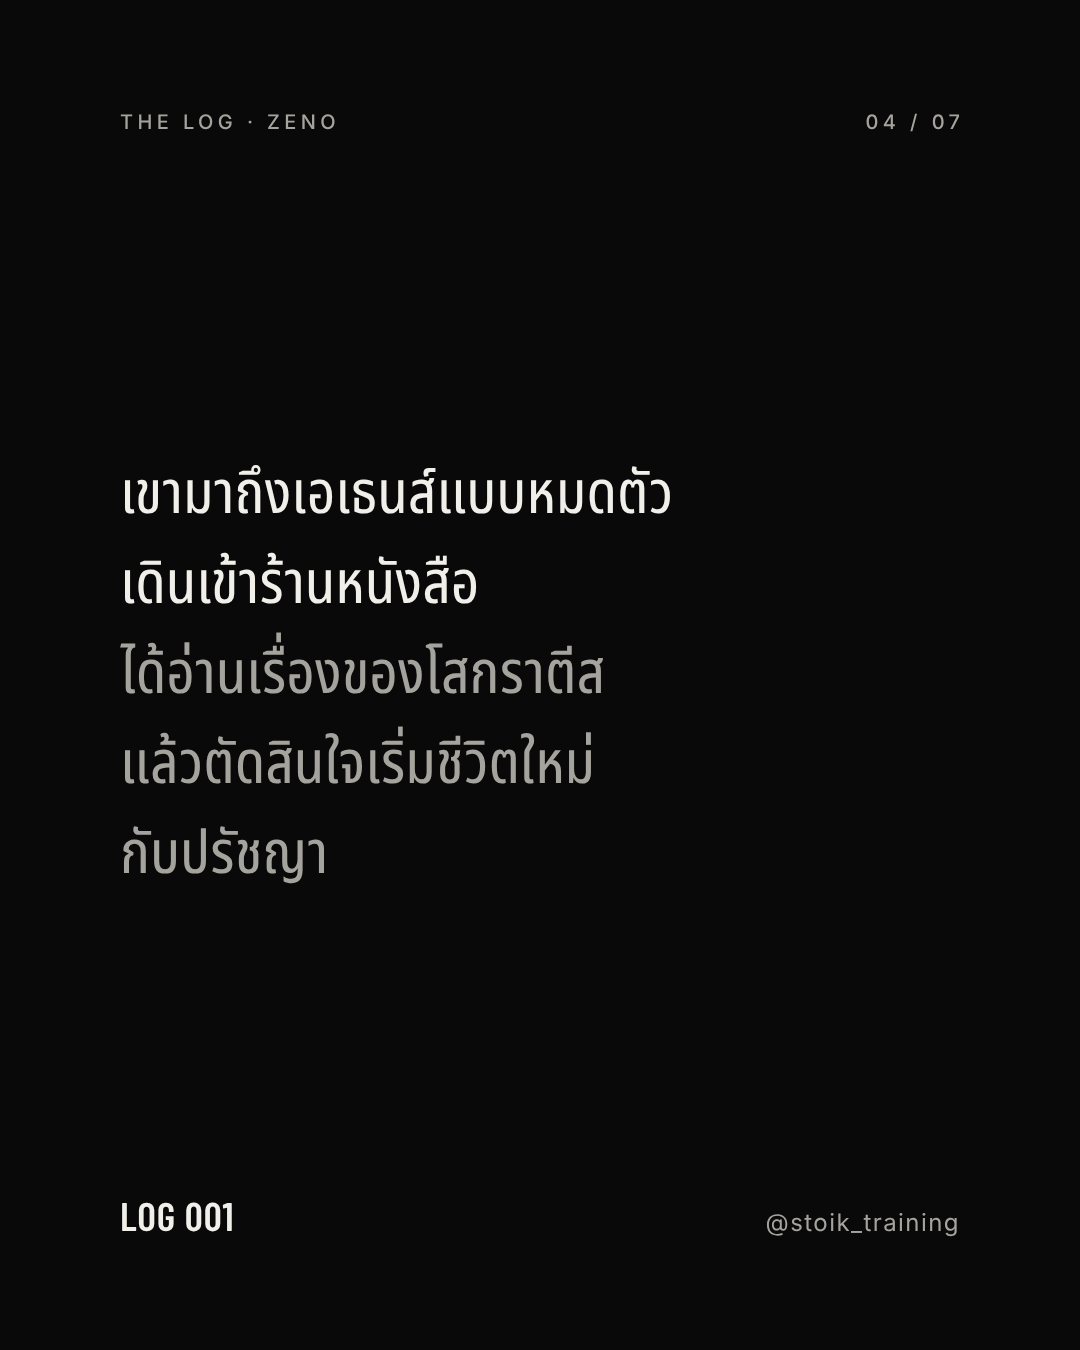
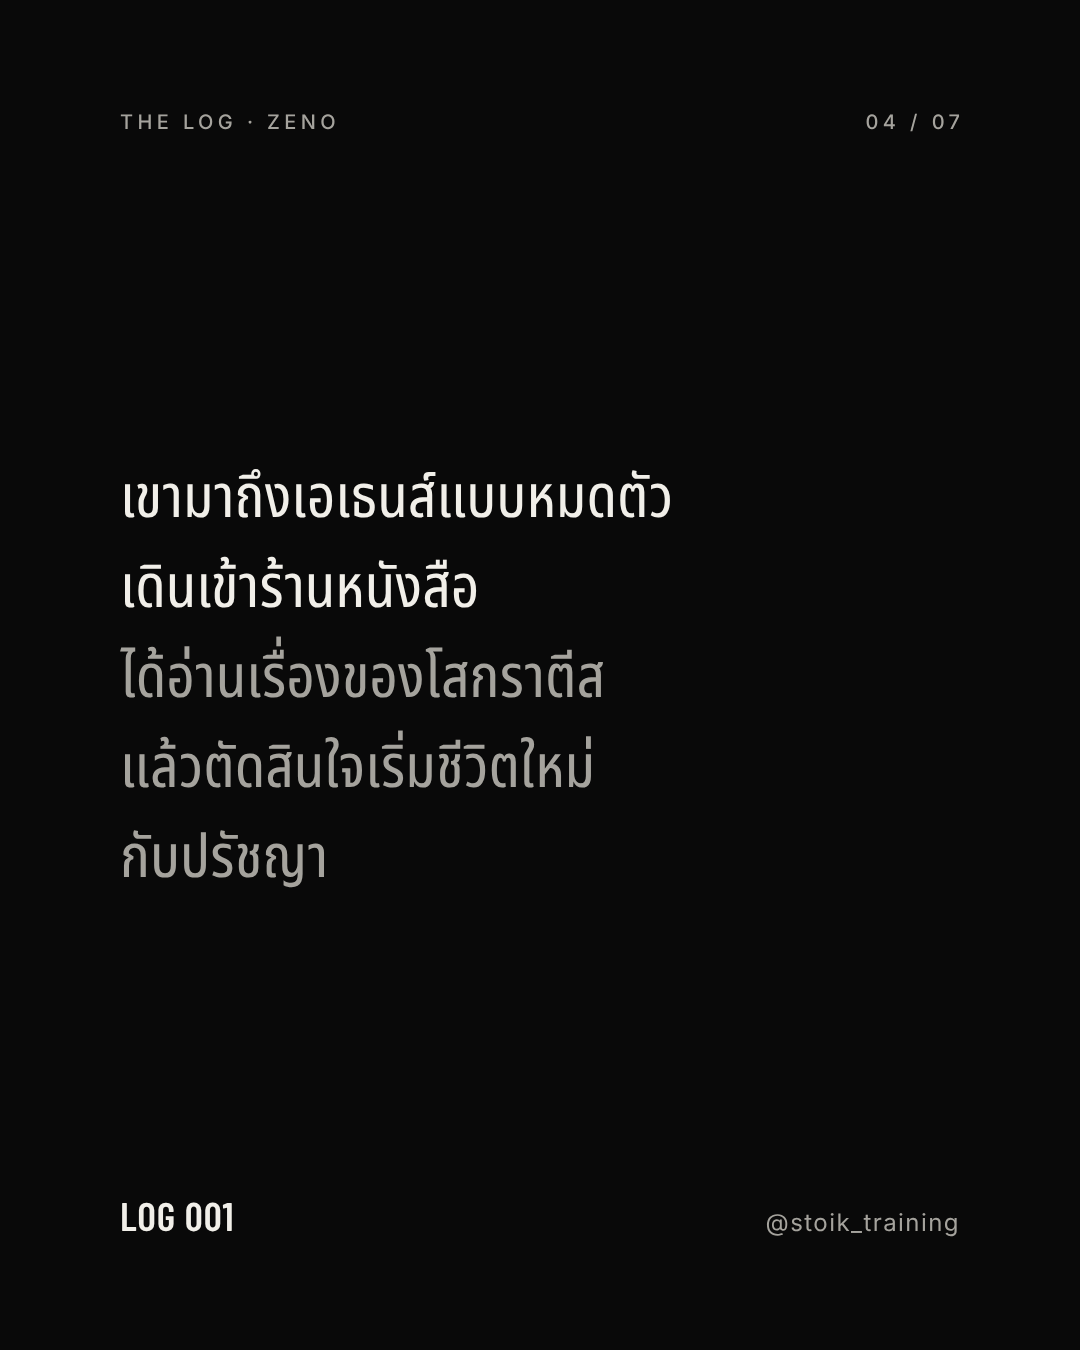
Add the LOG carousel generator and LOG 001's source
Keeps the slide template in the repo so each daily LOG is rendered the same way. LOG 001 is re-rendered from it; the slides read the same.

Claude-Session: https://claude.ai/code/session_01VRtrjmcTE5nBSy7oN5xmiW

diff --git a/stoik-log/render.js b/stoik-log/render.js
@@ -1,0 +1,132 @@
+// Renders a /ˈstōik/ LOG carousel as PNG slides in two sizes:
+//   carousel-<slug>-<n>.png  1080x1350  (Instagram)
+//   tiktok-<slug>-<n>.png    1080x1920  (TikTok, text kept inside the safe area)
+//
+// usage:  npm install   (once)
+//         node render.js logs/log-002.json ../stoic/brand
+//
+// Text never wraps on its own: every array entry is one line, so line breaks are
+// chosen by the writer. The script exits with an error when a line is wider than
+// the frame or a slide has too many lines; fix the JSON and run again.
+// Headline sizes shrink automatically until they fit.
+const fs = require('fs'), path = require('path');
+let chromium;
+try { ({ chromium } = require('playwright')); }
+catch { ({ chromium } = require('/opt/npm-tools/node_modules/playwright')); }
+
+const font = p => 'data:font/woff2;base64,' + fs.readFileSync(path.join(__dirname, 'node_modules', p)).toString('base64');
+const BC = w => font(`@fontsource/barlow-condensed/files/barlow-condensed-latin-${w}-normal.woff2`);
+const IN = w => font(`@fontsource/inter/files/inter-latin-${w}-normal.woff2`);
+const css = `
+@font-face{font-family:"Barlow Condensed";font-weight:500;src:url(${BC(500)})}
+@font-face{font-family:"Barlow Condensed";font-weight:500;unicode-range:U+0100-02FF;src:url(${font('@fontsource/barlow-condensed/files/barlow-condensed-latin-ext-500-normal.woff2')})}
+@font-face{font-family:"Barlow Condensed";font-weight:600;src:url(${BC(600)})}
+@font-face{font-family:"Barlow Condensed";font-weight:700;src:url(${BC(700)})}
+@font-face{font-family:"Inter";font-weight:300;src:url(${IN(300)})}
+@font-face{font-family:"Inter";font-weight:400;src:url(${IN(400)})}
+@font-face{font-family:"Inter";font-weight:500;src:url(${IN(500)})}
+@font-face{font-family:"Thai";font-weight:100 900;font-stretch:62.5% 100%;unicode-range:U+0E00-0E7F,U+200B-200D,U+25CC;src:url(${font('@fontsource-variable/noto-sans-thai/files/noto-sans-thai-thai-wdth-normal.woff2')})}
+*{box-sizing:border-box;margin:0;padding:0}
+html,body{background:#090909}
+.slide{position:relative;width:1080px;background:#090909;color:#F1EFE9;overflow:hidden;font-family:Inter,sans-serif;-webkit-font-smoothing:antialiased}
+.ig{height:1350px} .tt{height:1920px}
+.frame{position:absolute;left:120px;right:120px;top:0;height:1350px}
+.tt .frame{left:110px;right:200px;top:80px;height:1470px}
+.head{position:absolute;top:109px;left:0;right:0;display:flex;justify-content:space-between;font-size:20px;font-weight:500;letter-spacing:.22em;text-transform:uppercase;color:#A5A39D;line-height:26px}
+.head span:last-child{margin-right:-.22em}
+.foot{position:absolute;bottom:115px;left:0;right:0;display:flex;justify-content:space-between;align-items:flex-end}
+.foot .l{font-family:"Barlow Condensed";font-weight:600;font-size:40px;letter-spacing:.02em;line-height:1;text-transform:uppercase;display:inline-flex;align-items:center}
+.foot .l svg{margin-left:16px;position:relative;top:4px}
+.foot .r{position:relative;top:3px;font-size:24px;letter-spacing:.06em;color:#A5A39D;line-height:1.3}
+.foot .wm{font-family:"Barlow Condensed";font-weight:500;font-size:58px;letter-spacing:-.01em;line-height:1;display:inline-flex;align-items:baseline;text-transform:none}
+.wm-tick{display:inline-block;width:.055em;height:.32em;background:currentColor;margin:0 .06em 0 .05em;transform:translateY(-.42em)}
+.th{font-family:"Thai",Inter,sans-serif;font-stretch:75%}
+.body{position:absolute;left:0;right:0;top:50%;transform:translateY(-50%)}
+.tt .body{margin-top:14px}
+.body div{white-space:nowrap}
+.no{font-family:"Barlow Condensed";font-weight:600;font-size:48px;letter-spacing:.04em;color:#A5A39D;line-height:1;margin-bottom:44px}
+.h{font-family:"Barlow Condensed";font-weight:700;text-transform:uppercase;letter-spacing:0;font-size:var(--hs);line-height:calc(var(--hs) * .938)}
+.rule{width:96px;height:3px;background:#F1EFE9;margin-bottom:51px}
+.t1{font-size:62px;color:#A5A39D;line-height:1.2;margin-top:36px}
+.t4{font-size:62px;color:#F1EFE9;line-height:1.2;margin-top:35px}
+.t7{font-size:54px;color:#F1EFE9;line-height:1.3;margin-top:52px}
+.p{font-weight:300;font-size:63.3px;line-height:78px;letter-spacing:.005em}
+.m{color:#A5A39D}
+.t2{font-size:42px;line-height:64px;color:#C9C7C1;margin-top:28px}
+.tb{font-size:60px;line-height:90px;color:#F1EFE9}
+.tb.m,.tb .m{color:#A5A39D}
+.lab{font-size:36px;line-height:1.3;color:#A5A39D;margin-bottom:10px}
+.shift .rule{margin:54px 0 50px}
+.p5{font-weight:300;font-size:46px;line-height:56px;margin-top:62px;letter-spacing:.005em}
+.t5{font-size:38px;line-height:54px;color:#A5A39D;margin-top:24px}
+`;
+const esc = s => String(s).replace(/&/g, '&amp;').replace(/</g, '&lt;');
+const lines = (a, cls = '') => (a || []).map(l => `<div class="${cls}">${esc(l)}</div>`).join('');
+const ARROW = '<svg width="30" height="16" viewBox="0 0 30 16" fill="none" stroke="currentColor" stroke-width="2"><path d="M0 8h28M21 1.5 28 8l-7 6.5"/></svg>';
+const WORDMARK = '<span class="wm">/<span class="wm-tick"></span>stōik/</span>';
+// Default headline size per slide type; shrunk automatically when it does not fit.
+const HEAD = { hook: 186, turn: 222, closing: 147 };
+
+function slide(d, s, i, kind, hs) {
+  const n = String(i + 1).padStart(2, '0'), N = String(d.slides.length).padStart(2, '0');
+  const last = s.type === 'closing';
+  const head = `<div class="head"><span>${last || !d.stamp ? 'THE LOG' : 'THE LOG · ' + esc(d.stamp)}</span><span>${n} / ${N}</span></div>`;
+  let body = '', footL = esc(d.no), footR = esc(d.handle);
+  if (s.type === 'hook') { body = `<div class="no">${esc(d.no)}</div><div class="h">${lines(s.en)}</div><div class="th t1">${lines(s.th)}</div>`; footL = 'SWIPE' + ARROW; }
+  else if (s.type === 'thai') body = `<div class="th tb">${lines(s.th)}${lines(s.th2, 'm')}</div>`;
+  else if (s.type === 'text') body = `<div class="p">${lines(s.en)}${lines(s.en2, 'm')}</div><div class="th t2">${lines(s.th)}</div>`;
+  else if (s.type === 'turn') body = `<div class="rule"></div><div class="h">${lines(s.en)}</div><div class="th t4">${lines(s.th)}</div>`;
+  else if (s.type === 'shift') body = `<div class="th shift"><div class="lab">${esc(s.fromLabel || 'แทนที่จะคิดว่า')}</div><div class="tb m">${lines(s.from)}</div><div class="rule"></div><div class="lab">${esc(s.toLabel || 'ให้คิดว่า')}</div><div class="tb">${lines(s.to)}</div></div>`;
+  else if (s.type === 'closing') {
+    body = `<div class="h">${lines(s.en)}</div>${s.sub ? `<div class="p5">${lines(s.sub)}</div>` : ''}<div class="th ${s.sub ? 't5' : 't7'}">${lines(s.th)}</div>`;
+    footL = WORDMARK;
+    if (s.cta) footR = `${esc(s.cta)}${s.ctaTh ? ` · <span class="th">${esc(s.ctaTh)}</span>` : ''}`;
+  } else throw new Error(`slide ${i + 1}: unknown type "${s.type}"`);
+  return `<!doctype html><meta charset="utf-8"><style>${css}</style><div class="slide ${kind}" style="--hs:${hs}px"><div class="frame">${head}<div class="body">${body}</div><div class="foot"><span class="l">${footL}</span><span class="r">${footR}</span></div></div></div>`;
+}
+
+const measure = () => {
+  const f = document.querySelector('.frame').getBoundingClientRect(), wide = [];
+  document.querySelectorAll('.body div, .foot span').forEach(e => {
+    if (e.children.length && !e.matches('.l,.r,.wm')) return;
+    const r = document.createRange(); r.selectNodeContents(e);
+    const over = Math.round(r.getBoundingClientRect().right - f.right);
+    if (over > 1) wide.push({ text: e.textContent, over, headline: !!e.closest('.h') });
+  });
+  const bd = document.querySelector('.body').getBoundingClientRect(), hd = document.querySelector('.head').getBoundingClientRect(), ft = document.querySelector('.foot').getBoundingClientRect();
+  return { wide, gap: Math.round(Math.min(bd.top - hd.bottom, ft.top - bd.bottom)) };
+};
+
+(async () => {
+  const [src, out] = process.argv.slice(2);
+  if (!src || !out) { console.error('usage: node render.js <log.json> <output-dir>'); process.exit(2); }
+  const d = JSON.parse(fs.readFileSync(src, 'utf8'));
+  fs.mkdirSync(out, { recursive: true });
+  const FORMATS = [['ig', 'carousel', 1350], ['tt', 'tiktok', 1920]];
+  const MIN_GAP = 100, problems = [];
+  const b = await chromium.launch();
+  const pages = {};
+  for (const [kind, , h] of FORMATS) pages[kind] = await b.newPage({ viewport: { width: 1080, height: h } });
+  const load = async (kind, html) => { const p = pages[kind]; await p.setContent(html); await p.evaluate(() => document.fonts.ready); await p.waitForTimeout(120); return p.evaluate(measure); };
+
+  for (let i = 0; i < d.slides.length; i++) {
+    const s = d.slides[i];
+    let hs = s.size || HEAD[s.type] || 0;
+    // Shrink the headline until it fits both formats, so both sizes look the same.
+    for (; hs > 96; hs -= 4) {
+      let ok = true;
+      for (const [kind] of FORMATS) { const m = await load(kind, slide(d, s, i, kind, hs)); if (m.wide.some(w => w.headline) || m.gap < MIN_GAP) ok = false; }
+      if (ok || !HEAD[s.type]) break;
+    }
+    for (const [kind, prefix] of FORMATS) {
+      const m = await load(kind, slide(d, s, i, kind, hs));
+      for (const w of m.wide) problems.push(`slide ${i + 1} (${prefix}): line too wide by ${w.over}px, break it earlier: "${w.text}"`);
+      if (m.gap < 60) problems.push(`slide ${i + 1} (${prefix}): too many lines, only ${m.gap}px of breathing room. Cut text.`);
+      await pages[kind].screenshot({ path: path.join(out, `${prefix}-${d.slug}-${i + 1}.png`) });
+    }
+    console.log(`slide ${i + 1} ${s.type}${HEAD[s.type] ? ' headline ' + hs + 'px' : ''}`);
+  }
+  await b.close();
+  if (problems.length) { console.error('\nNOT READY TO POST:\n' + problems.join('\n')); process.exit(1); }
+  console.log(`\nok: ${d.slides.length} slides x 2 sizes written to ${out}`);
+})();

diff --git a/stoik-log/README.md b/stoik-log/README.md
@@ -1,0 +1,42 @@
+# /ˈstōik/ LOG carousel generator
+
+Renders each daily LOG as PNG slides in the brand template, in two sizes:
+
+- `stoic/brand/carousel-log-NNN-<n>.png`: 1080×1350, Instagram
+- `stoic/brand/tiktok-log-NNN-<n>.png`: 1080×1920, TikTok (text kept clear of the app's buttons)
+
+## Make a LOG
+
+```sh
+cd stoik-log
+npm install                      # once per checkout
+node render.js logs/log-002.json ../stoic/brand
+```
+
+Needs Node and Playwright with Chromium. Fonts (Barlow Condensed, Inter, Noto Sans Thai) come from `npm install` and are embedded at render time.
+
+## The source file
+
+One JSON file per LOG in `logs/`. `logs/log-001.json` is the reference.
+
+| Field | Meaning |
+| --- | --- |
+| `slug` | `log-NNN`, used in the file names |
+| `no` | `LOG NNN`, shown on the slides |
+| `date`, `topic`, `figure` | Not shown. Used to avoid repeating a theme or a philosopher |
+| `stamp` | Short label after "THE LOG ·" in the header, usually the philosopher's name |
+| `handle` | Shown bottom right |
+| `slides` | The slides, in order |
+
+Every array entry is one line on the slide. Lines never wrap by themselves, so the line breaks are the writer's choice. The script stops with an error if a line is wider than the frame (about 34 Thai characters or 24 English characters of body text) or a slide has too many lines. Headlines shrink to fit, so keep each headline line near 10 characters to keep them large.
+
+Slide types:
+
+| `type` | Fields | Look |
+| --- | --- | --- |
+| `hook` | `en`, `th` | LOG number, large English headline, Thai line below, "SWIPE" footer |
+| `thai` | `th`, `th2` | Thai body text. `th` lines are bright, `th2` lines are muted |
+| `text` | `en`, `en2`, `th` | English body text (bright then muted) with a smaller Thai translation |
+| `turn` | `en`, `th` | Short rule, very large English headline, Thai line |
+| `shift` | `from`, `to` | "แทนที่จะคิดว่า" (muted) over "ให้คิดว่า" (bright) |
+| `closing` | `en`, `th`, optional `sub`, `cta`, `ctaTh` | Large English statement, Thai line, wordmark footer |
